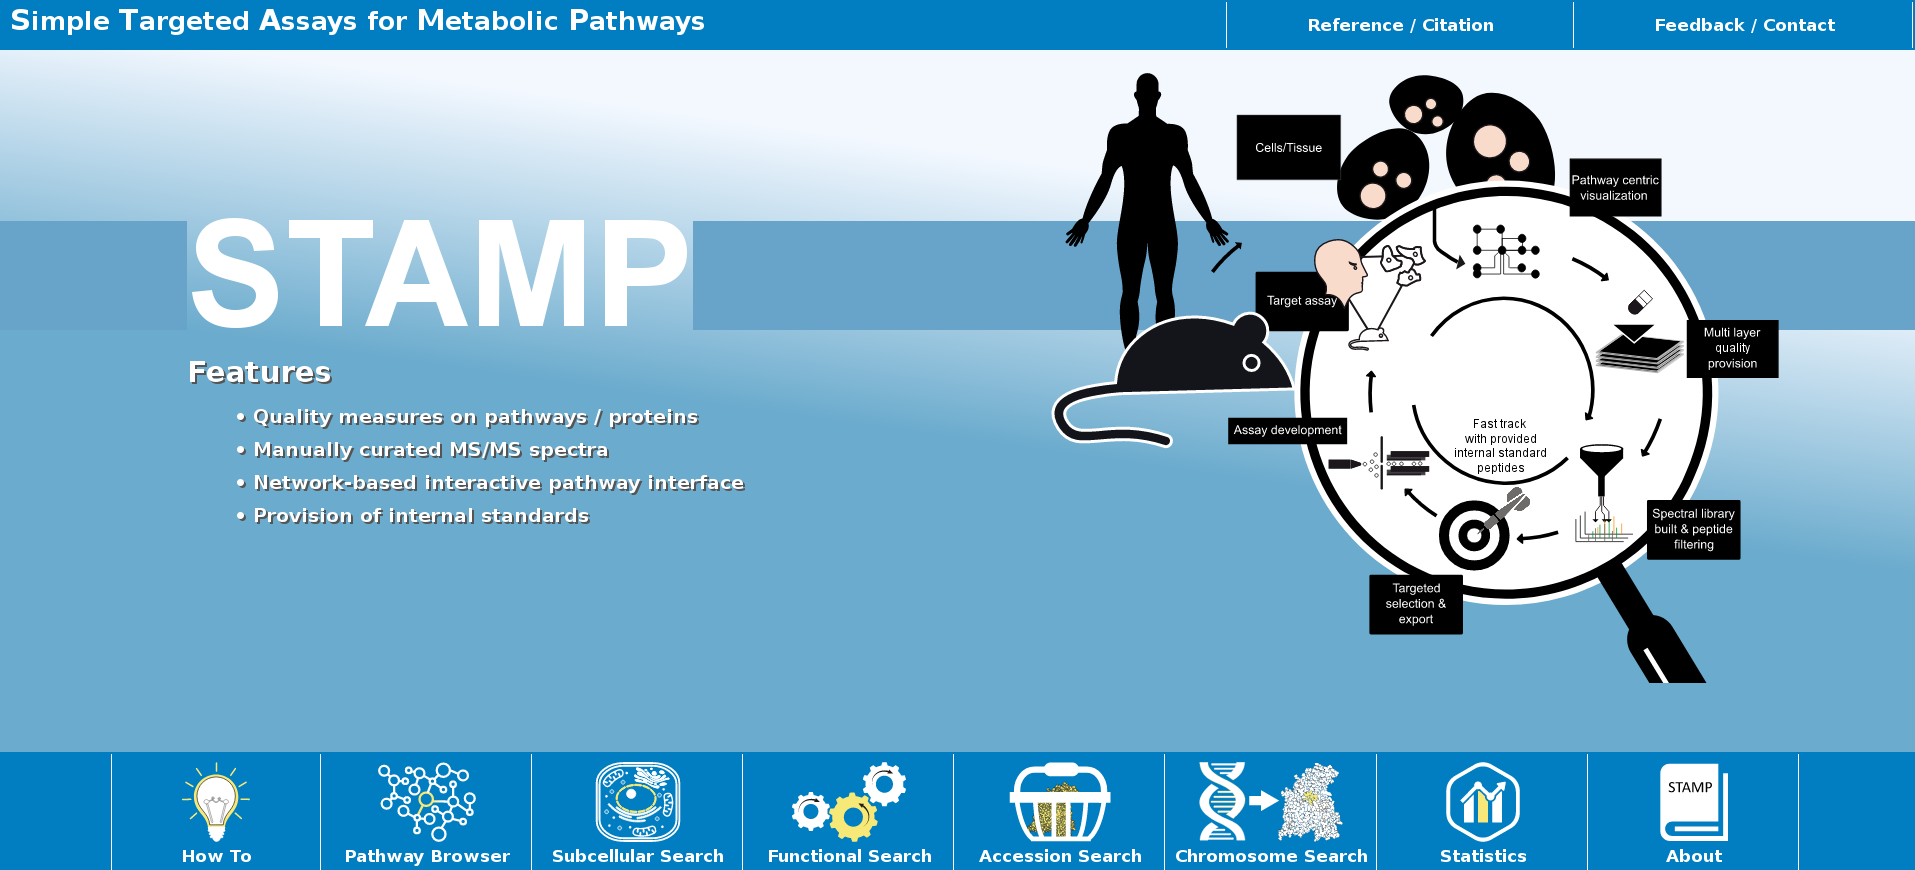
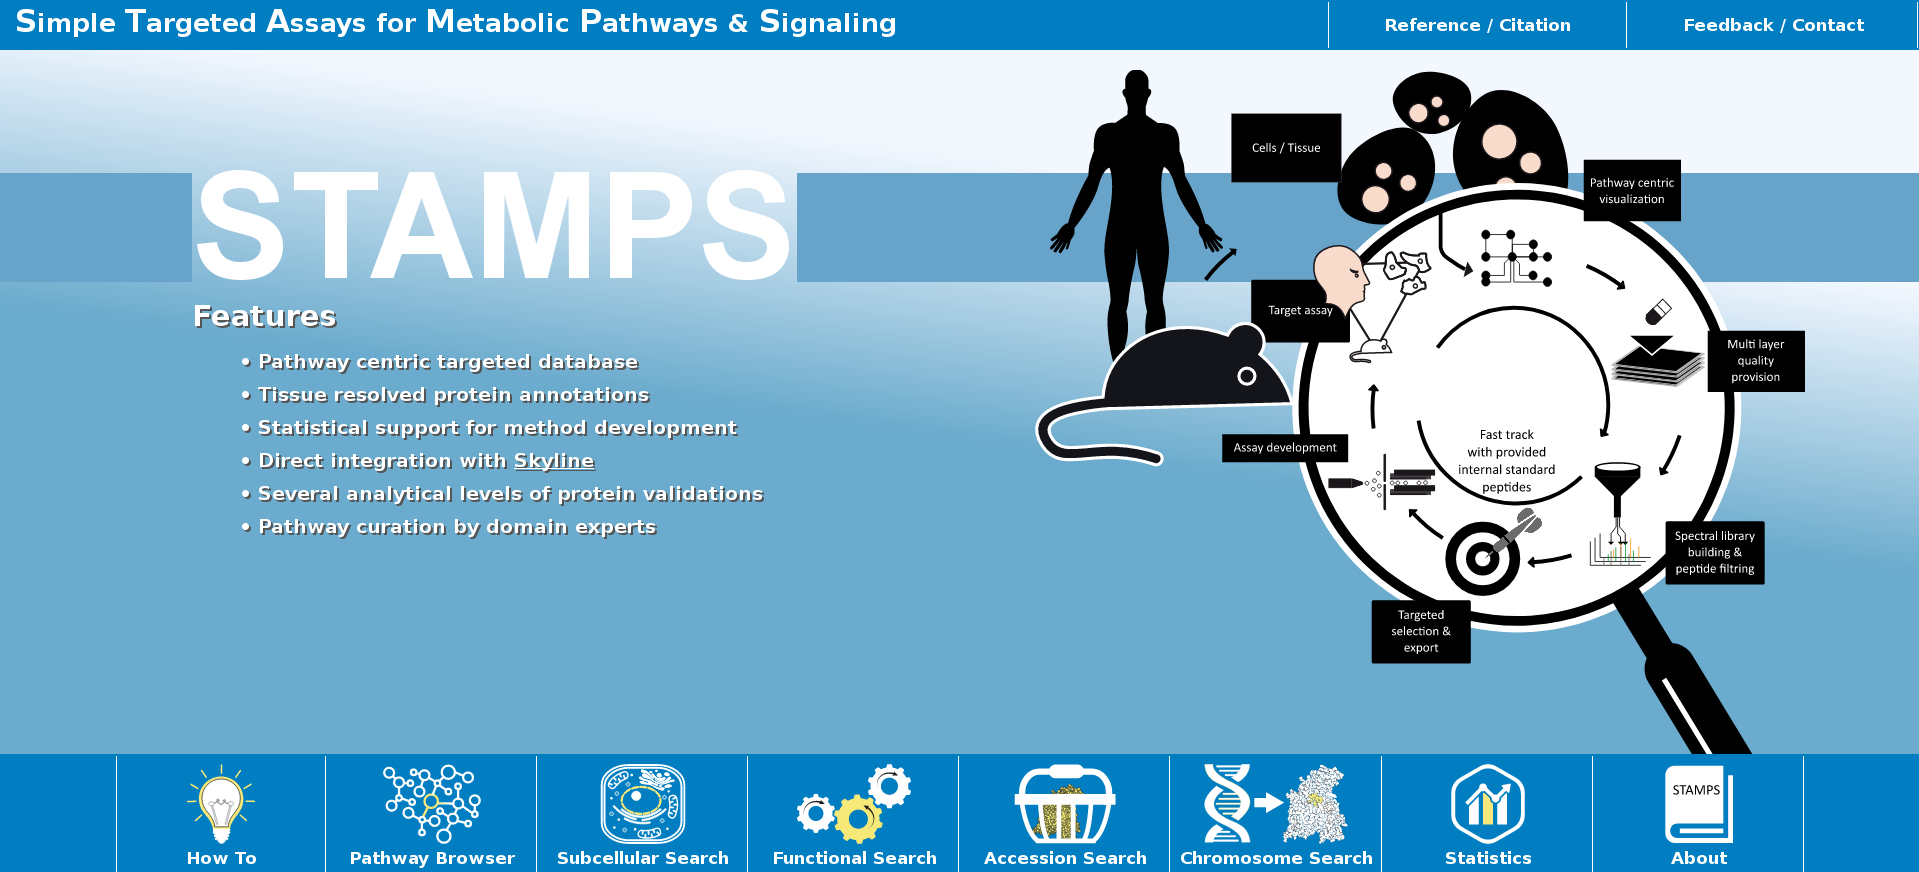
first rename changes from STAMP to STAMPS

diff --git a/index.html b/index.html
@@ -11,18 +11,19 @@
 <script src="ms-view.js"></script>
 <script src="qsdb.js"></script>
 
-<title>STAMP Home</title>
+<title>STAMPS Home</title>
 </head>
 <body style="background: linear-gradient(8deg, #6babcd, #6babcd, #6babcd, #f3f8ff, #f3f8ff); background-attachment: fixed;">
 
 <div class="navigation">
     <table width="100%" height=50><tr>
         <td class="navigation_cell" style="min-height: 70px; font-size: 1.3vw; display: inline; border-width: 0px;">
-            <font style="font-size: 1.5vw;">S</font>imple
-            <font style="font-size: 1.5vw;">T</font>argeted
-            <font style="font-size: 1.5vw;">A</font>ssays for
-            <font style="font-size: 1.5vw;">M</font>etabolic
-            <font style="font-size: 1.5vw;">P</font>athways
+            <font style="font-size: 1.6vw;">S</font>imple
+            <font style="font-size: 1.6vw;">T</font>argeted
+            <font style="font-size: 1.6vw;">A</font>ssays for
+            <font style="font-size: 1.6vw;">M</font>etabolic
+            <font style="font-size: 1.6vw;">P</font>athways &amp;
+            <font style="font-size: 1.6vw;">S</font>ignaling
         </td>
     
         <td class="navigation_cell_click" align="center" style="border-left: white; border-left-style: solid; border-left-width: 1px;"  onclick="document.getElementById('citation').style.display = 'inline';">Reference / Citation</td>
@@ -43,7 +44,7 @@
         <tr>
             <td width=10% height=20 bgcolor="#68a4c9">&nbsp;</td>
             <td width=20% style="margin: 0px;" valign="top">
-                <div style="width: auto; font-family: Arial, Helvetica Neue, Helvetica, sans-serif; font-weight: bold; font-size: 4vw; font-size-adjust: 1; color: #ffffff; display: inline-block; margin-top: -1.5vw; margin-bottom: -1.8vw;">STAMP</div>
+                <div style="width: auto; font-family: Arial, Helvetica Neue, Helvetica, sans-serif; font-weight: bold; font-size: 4vw; font-size-adjust: 1; color: #ffffff; display: inline-block; margin-top: -1.5vw; margin-bottom: -1.8vw;">STAMPS</div>
             </td>
             <td bgcolor="#68a4c9" valign="top">&nbsp;</td>
         </tr>
@@ -127,11 +128,11 @@
             <h2><center><b>Creating Assay using Pathway Browser</b></center></h2><p>
             
             <h3>1) Select pathway browser</h3>
-            When opening the STAMP1 website, the first page is leading to all main protein selection dialogs as visible in <a href="#stamp_main">Figure&nbsp;1</a>. Clicking on „Pathway Browser“ in the lower panel, the main pathway browser window will be opened, consider Figure&nbsp;2. The pathway browser is an interactive browser, the view can be shifted (right click), the zoom can be changed (mouse wheel or magnifier icons on bottom right position).
+            When opening the STAMPS website, the first page is leading to all main protein selection dialogs as visible in <a href="#stamp_main">Figure&nbsp;1</a>. Clicking on „Pathway Browser“ in the lower panel, the main pathway browser window will be opened, consider Figure&nbsp;2. The pathway browser is an interactive browser, the view can be shifted (right click), the zoom can be changed (mouse wheel or magnifier icons on bottom right position).
             <figure>
                 <a name="stamp_main">
-                <img src="images/tutorial/stamp-1.png" alt="Main page of STAMP providing easy accession to all functions and statistical summaries" style="width:100%">
-                <figcaption>Figure 1 | Main page of STAMP providing easy accession to all functions and statistical summaries</figcaption>
+                <img src="images/tutorial/stamp-1.png" alt="Main page of STAMPS providing easy accession to all functions and statistical summaries" style="width:100%">
+                <figcaption>Figure 1 | Main page of STAMPS providing easy accession to all functions and statistical summaries</figcaption>
             </figure>
             The metabolic pathways are plotted in a graph-based fashion. Metabolites are presented as circles; proteins which act in the same metabolic reaction are grouped in protein boxes. By directly clicking on metabolite or protein labels, additional information is presented. Pathway references are presented in round-corned boxes. By clicking on, the according pathway will be opened.
             <figure>
@@ -226,7 +227,7 @@
     <div id="disclaimer_content" class="global_search_content" style="overflow-y: auto;">
     <table width="100%" height="100%"><tr><td valign="top" align="justify">
             <center><b>Citation</b></center><p>
-            If you are using STAMP in your publication, please include one of these references:<p>
+            If you are using STAMPS in your publication, please include one of these references:<p>
             <table cellspacing='5px'>
             <tr><td valign='top'>⚫ </td><td>Hentschel et al., <i>#journal</i>, #year.<br></td></tr>
             <tr><td valign='top'>⚫ </td><td>Hentschel, A., Kopczynski, D., Lorenz C., Sickmann, A.,  Ahrends, R. (2018). Simple Targeted Assays for Metabolic Pathways: a powerful kickoff tool for targeted proteomics. <i>#journal</i>, #number, #pages.<br></td></tr>
@@ -246,8 +247,8 @@
 <div id="disclaimer" class="global_search" onclick="this.style.display = 'none';">
     <div id="disclaimer_content" class="global_search_content" style="overflow-y: auto; height: 80%;">
         <table width="100%" height="100%"><tr><td align="justify">
-            <center><b>About STAMP</b></center><p>
-            The Simple Targeted Assays for Metabolic Pathways (STAMP) database provides a pathway based approach to access proteomics assays for targeted proteomics.
+            <center><b>About STAMPS</b></center><p>
+            The Simple Targeted Assays for Metabolic Pathways &amp; Signaling (STAMPS) database provides a pathway based approach to access proteomics assays for targeted proteomics.
             Currently, we are acquiring mass spectra for all proteins within the mouse organism.
             Our mass spetrometer is a QExactive Plus or HF, capable to produce high-resolution high-mass accuracy LC-MS/MS spectra.<p>
             Responsible people for this database are:<br>
@@ -3118,7 +3119,7 @@ document.getElementById("disclaimer_content").addEventListener('click', function
 document.getElementById("statistics_table").addEventListener('click', function(event){event.stopPropagation(); return false;}, false);
 
 if (mobile_check()){
-    alert("We recognized, that you are browsing with a mobile device. We strongly recommend to browse STAMP from a desktop computer or laptop. Some functionality may not work. Due to high data traffic, some information provision is turned off. We apologize for the inconvenience.");
+    alert("We recognized, that you are browsing with a mobile device. We strongly recommend to browse STAMPS from a desktop computer or laptop. Some functionality may not work. Due to high data traffic, some information provision is turned off. We apologize for the inconvenience.");
 }
 else {
     var process_stat_loading = setInterval(function(){

diff --git a/browser.html b/browser.html
@@ -8,7 +8,7 @@
 <script src="ms-view.js"></script>
 <script src="qsdb-functions.js"></script>
 <script src="qsdb.js"></script>
-<title>STAMP Home</title>
+<title>STAMPS Home</title>
 </head>
 
 <body>
